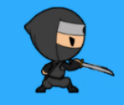
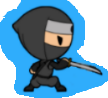
more messing around with css

diff --git a/public/css/styles.css b/public/css/styles.css
@@ -14,9 +14,10 @@ a {
 	opacity: 0.7;
     filter: alpha(opacity=70);
     position:absolute;
-    top: 10%;
-    left: 17%;
+    margin-top: -8%;
+    left: 18%;
     z-index: -1;
+    position: relative;
 }
 
 form {
@@ -30,31 +31,31 @@ form {
 .paper {
 	position: absolute;
 	top: 85%;
-	left: 20%;
+	left: 25%;
 }
 
 .rock {
 	position: absolute;
-	top: 35%;
-	left: 18%;
+	top: 37%;
+	left: 23%;
 }
 
 .scissors {
 	position: absolute;
 	top: 85%;
-	left: 58%;
+	left: 64%;
 }
 
 .ninja {
 	position: absolute;
-	top: 11%;
-	left: 42%;
+	top: 13%;
+	left: 46%;
 }
 
 .samurai {
 	position: absolute;
-	top: 32%;
-	left: 60%;
+	top: 36%;
+	left: 66%;
 }
 
 .result {
